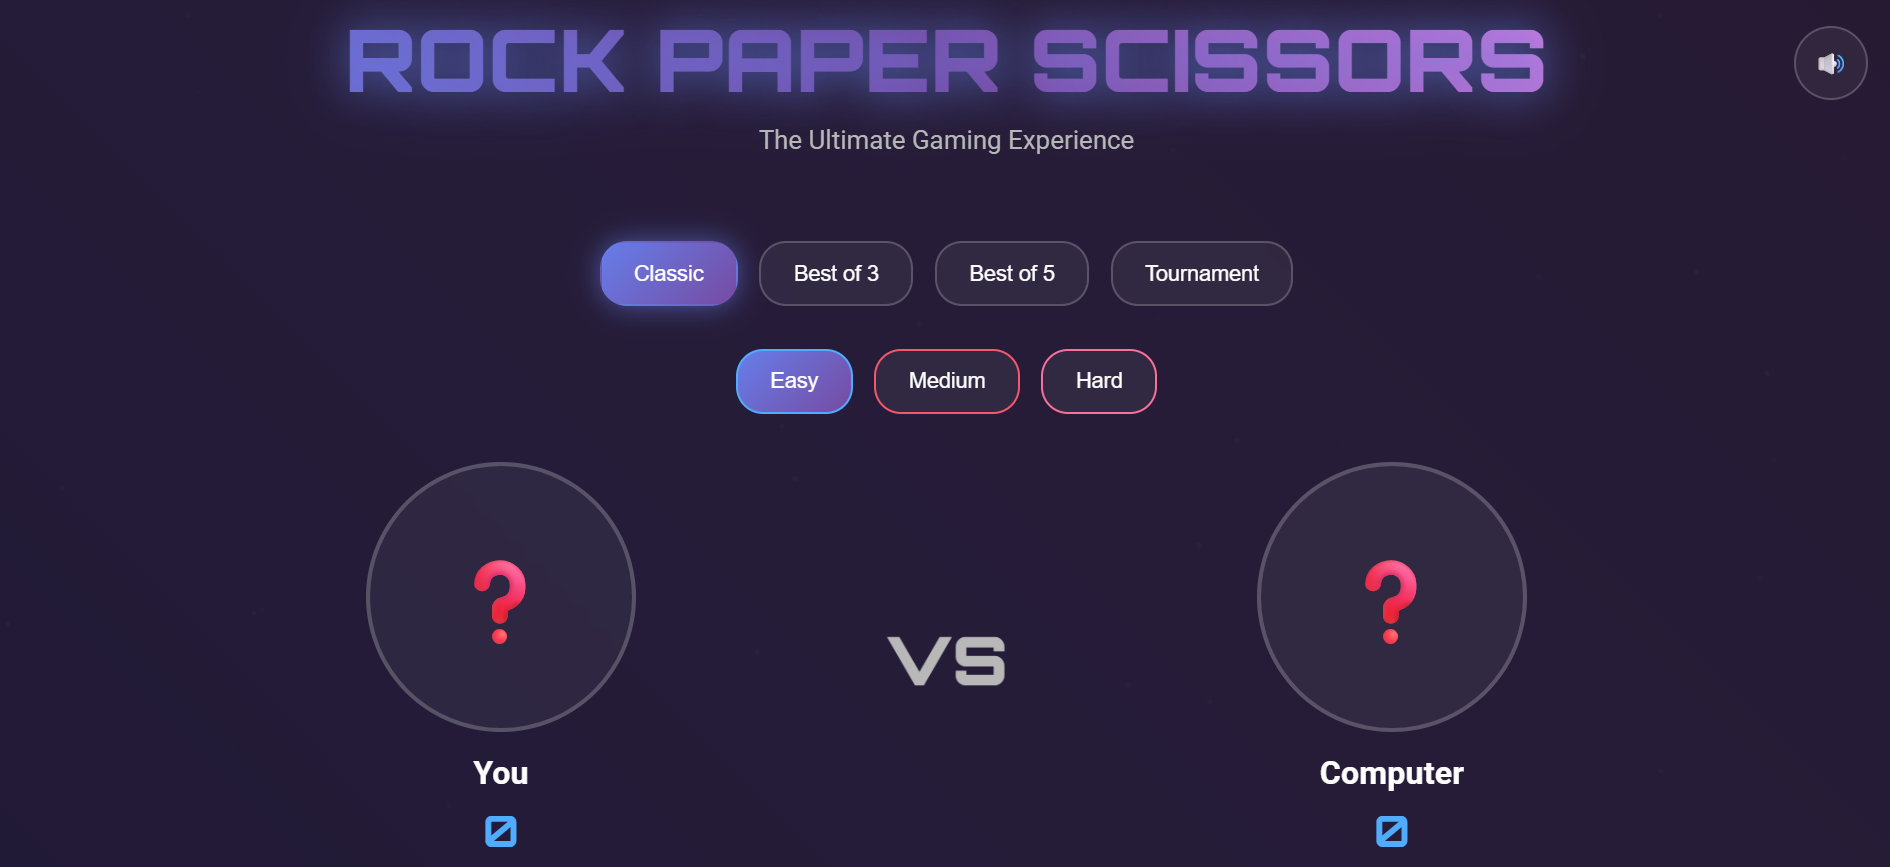
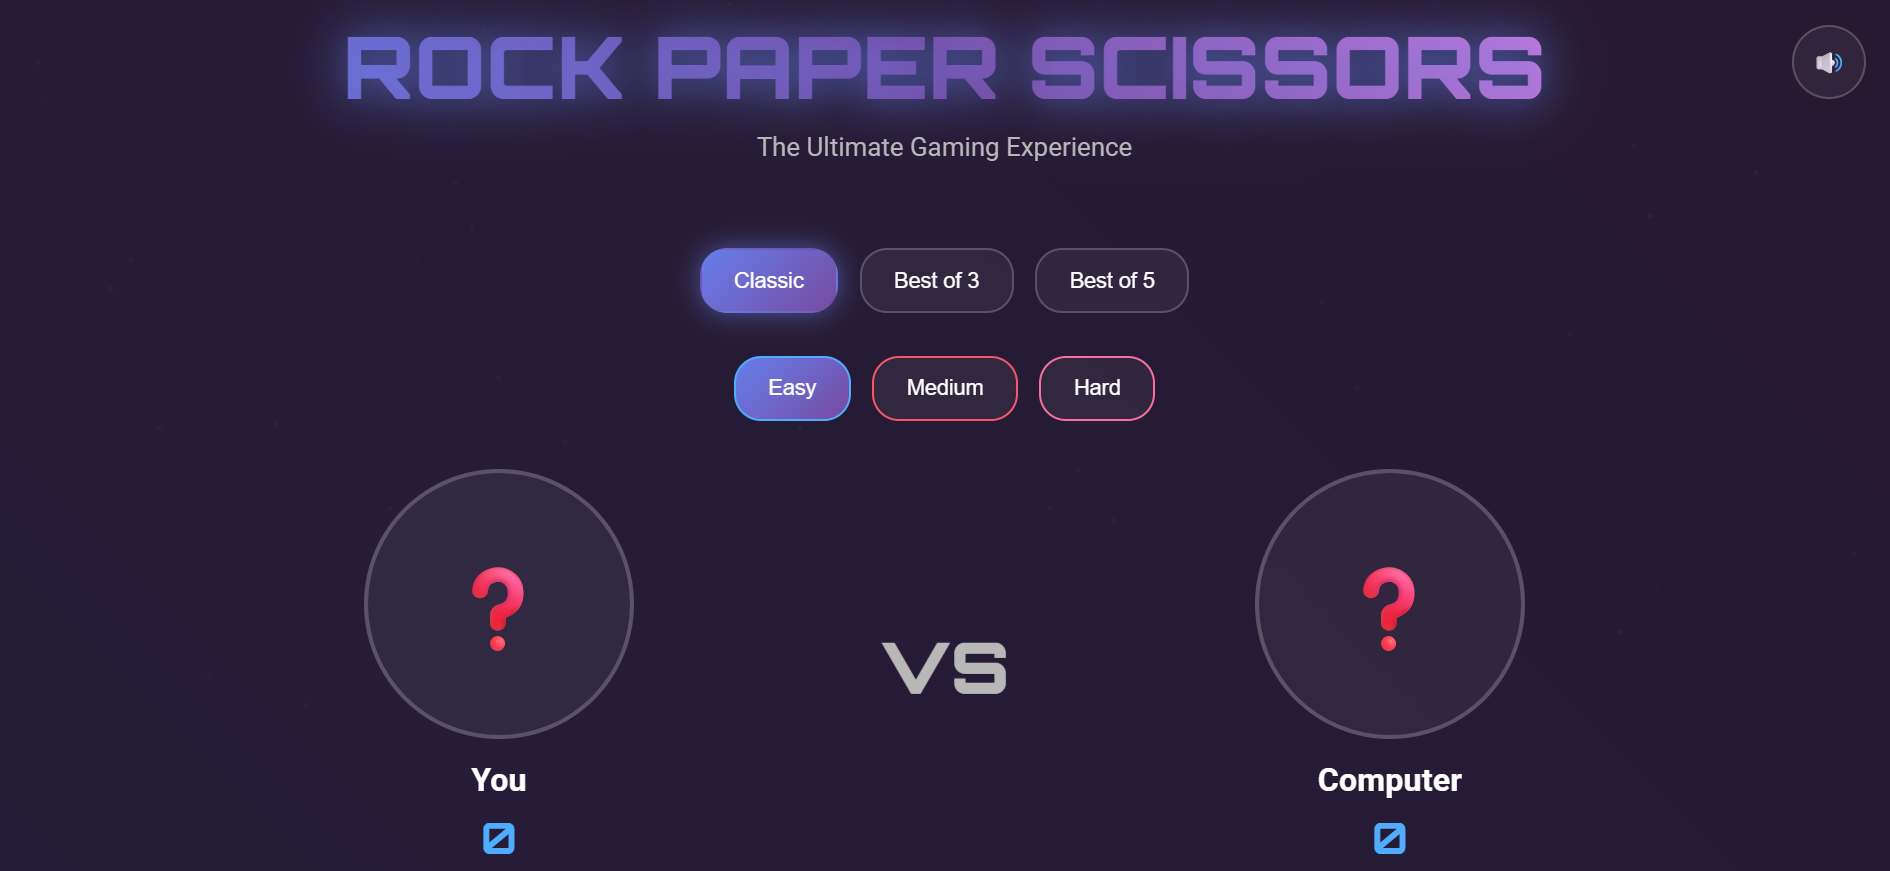
Fix toggle stats issue

diff --git a/script.js b/script.js
@@ -37,6 +37,17 @@ class initializeGame {
         this.bindEvents();
         this.updateDisplay();
         this.updateStatsDisplay();
+        this.syncStatsButtonLabel();
+    }
+
+    syncStatsButtonLabel() {
+        const statsPanel = document.getElementById('statsPanel');
+        const showBtn = document.getElementById('showStatsBtn');
+        const isVisible = statsPanel && getComputedStyle(statsPanel).display !== 'none';
+
+        if (showBtn) {
+            showBtn.textContent = isVisible ? 'Hide Stats' : 'Show Stats';
+        }
     }
 
     // Bind the event handlers
@@ -94,10 +105,6 @@ class initializeGame {
                 break;
             case 'best-of-5':
                 this.maxRounds = 5;
-                break;
-            case 'tournament':
-                this.maxRounds = 1;
-                this.setupTournament();
                 break;
             default:
                 this.maxRounds = 1;
@@ -385,7 +392,7 @@ class initializeGame {
         this.disableChoices();
 
         // Auto-start new game after delay
-        setTimeout(() => this.newGame(), 4000);
+        setTimeout(() => this.newGame(), 200);
     }
 
     newGame() {
@@ -419,11 +426,6 @@ class initializeGame {
         document.querySelectorAll('.choice-btn').forEach(btn => {
             btn.classList.add('disabled');
         });
-    }
-
-    setupTournament() {
-        document.getElementById('tournamentBracket').classList.add('active');
-        // Tournament logic would go here
     }
 
     checkAchievements() {
@@ -503,12 +505,14 @@ class initializeGame {
         const statsPanel = document.getElementById('statsPanel');
         const showBtn = document.getElementById('showStatsBtn');
 
-        if (statsPanel.style.display === 'none' || !statsPanel.style.display) {
-            statsPanel.style.display = 'grid';
-            showBtn.textContent = 'Hide Stats';
-        } else {
+        const isVisible = getComputedStyle(statsPanel).display !== 'none';
+
+        if (isVisible) {
             statsPanel.style.display = 'none';
             showBtn.textContent = 'Show Stats';
+        } else {
+            statsPanel.style.display = 'grid';
+            showBtn.textContent = 'Hide Stats';
         }
     }
 

diff --git a/index.html b/index.html
@@ -34,7 +34,6 @@
         <button class="mode-btn active" data-mode="classic">Classic</button>
         <button class="mode-btn" data-mode="best-of-3">Best of 3</button>
         <button class="mode-btn" data-mode="best-of-5">Best of 5</button>
-        <button class="mode-btn" data-mode="tournament">Tournament</button>
     </div>
 
     <!-- Difficulty Selection -->
@@ -46,26 +45,6 @@
 
     <!-- Game Container -->
     <div class="game-container">
-        <!-- Tournament Bracket -->
-        <div class="tournament-bracket" id="tournamentBracket">
-            <div class="bracket-round">
-                <div class="bracket-match">Quarter Final 1</div>
-                <div class="bracket-match">Quarter Final 2</div>
-                <div class="bracket-match">Quarter Final 3</div>
-                <div class="bracket-match">Quarter Final 4</div>
-            </div>
-            <div class="bracket-round">
-                <div class="bracket-match">Semi Final 1</div>
-                <div class="bracket-match">Semi Final 2</div>
-            </div>
-            <div class="bracket-round">
-                <div class="bracket-match">Final</div>
-            </div>
-            <div class="bracket-round">
-                <div class="bracket-match">Champion</div>
-            </div>
-        </div>
-
         <!-- Game Board -->
         <div class="game-board">
             <div class="player-section">

diff --git a/styles.scss b/styles.scss
@@ -679,38 +679,6 @@ body::after {
     border-color: transparent;
 }
 
-/* Tournament Mode */
-.tournament-bracket {
-    display: none;
-    grid-template-columns: repeat(4, 1fr);
-    gap: 1rem;
-    margin-bottom: 2rem;
-}
-
-.tournament-bracket.active {
-    display: grid;
-}
-
-.bracket-round {
-    display: flex;
-    flex-direction: column;
-    gap: 1rem;
-}
-
-.bracket-match {
-    background: var(--glass-bg);
-    padding: 1rem;
-    border-radius: var(--border-radius);
-    border: 2px solid rgba(255, 255, 255, 0.2);
-    backdrop-filter: blur(10px);
-    text-align: center;
-}
-
-.bracket-match.winner {
-    border-color: #4facfe;
-    box-shadow: 0 0 20px rgba(79, 172, 254, 0.4);
-}
-
 /* Achievement System */
 .achievement-popup {
     position: fixed;

diff --git a/output.css b/output.css
@@ -646,38 +646,6 @@ body::after {
   border-color: transparent;
 }
 
-/* Tournament Mode */
-.tournament-bracket {
-  display: none;
-  grid-template-columns: repeat(4, 1fr);
-  gap: 1rem;
-  margin-bottom: 2rem;
-}
-
-.tournament-bracket.active {
-  display: grid;
-}
-
-.bracket-round {
-  display: flex;
-  flex-direction: column;
-  gap: 1rem;
-}
-
-.bracket-match {
-  background: var(--glass-bg);
-  padding: 1rem;
-  border-radius: var(--border-radius);
-  border: 2px solid rgba(255, 255, 255, 0.2);
-  backdrop-filter: blur(10px);
-  text-align: center;
-}
-
-.bracket-match.winner {
-  border-color: #4facfe;
-  box-shadow: 0 0 20px rgba(79, 172, 254, 0.4);
-}
-
 /* Achievement System */
 .achievement-popup {
   position: fixed;

diff --git a/README.md b/README.md
@@ -15,7 +15,6 @@
   - Classic (Single round)
   - Best of 3
   - Best of 5
-  - Tournament mode
 
 - **Difficulty Levels**:
   - Easy
